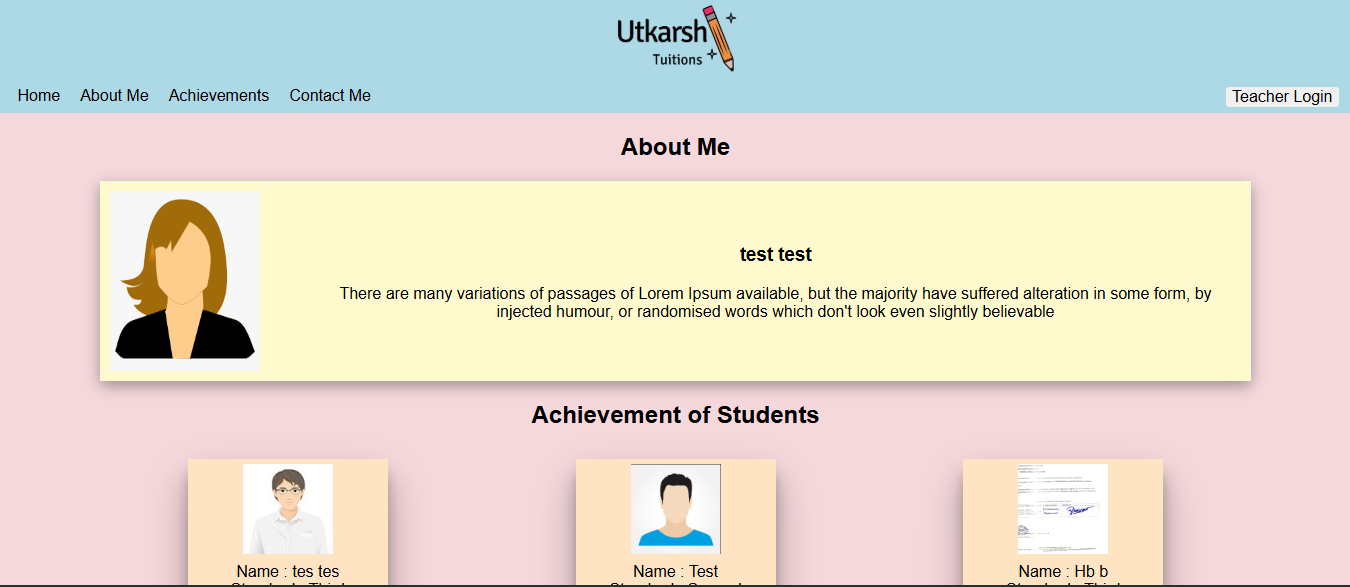
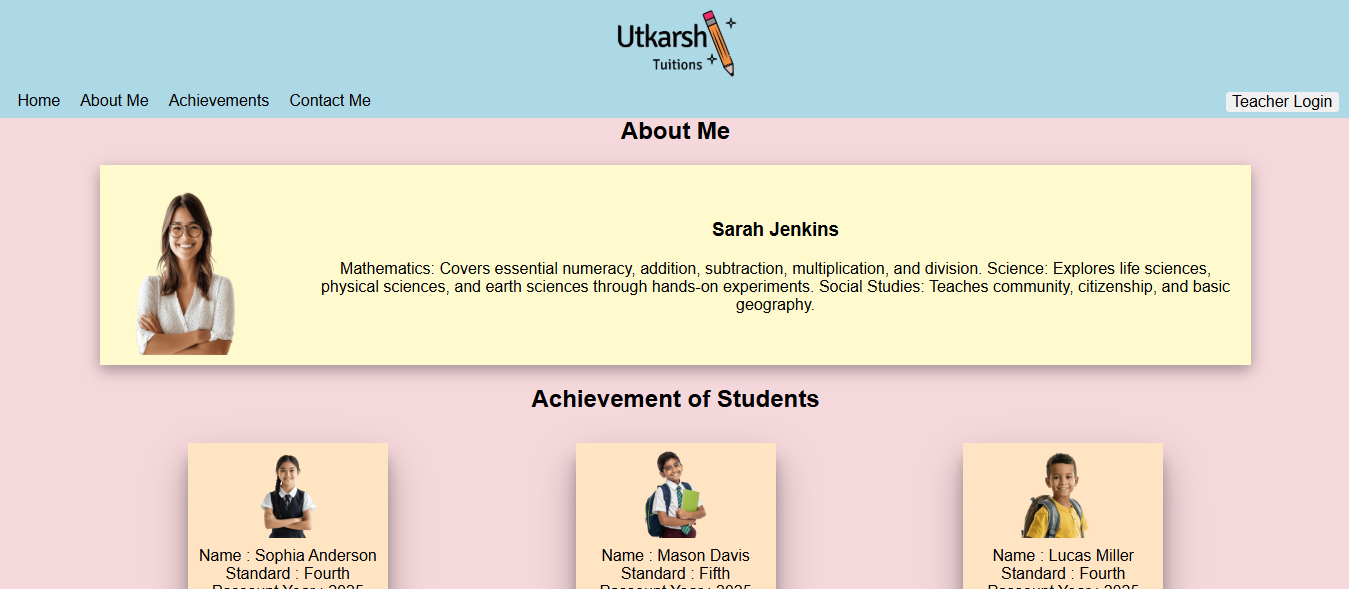
fix: utkarsh tuition project v2 gihub repo add and its image add

diff --git a/src/components/GithubRepoProjectTwo.jsx b/src/components/GithubRepoProjectTwo.jsx
@@ -1,6 +1,9 @@
 const GithubRepoProjectOne = () => {
   const handleGithubBtn = () => {
-    window.open("https://github.com/prathamesh2503/utkarshtuition", "_blank");
+    window.open(
+      "https://github.com/prathamesh2503/utkarshtuition-local",
+      "_blank",
+    );
   };
 
   return <button onClick={handleGithubBtn}>Github Repo</button>;
